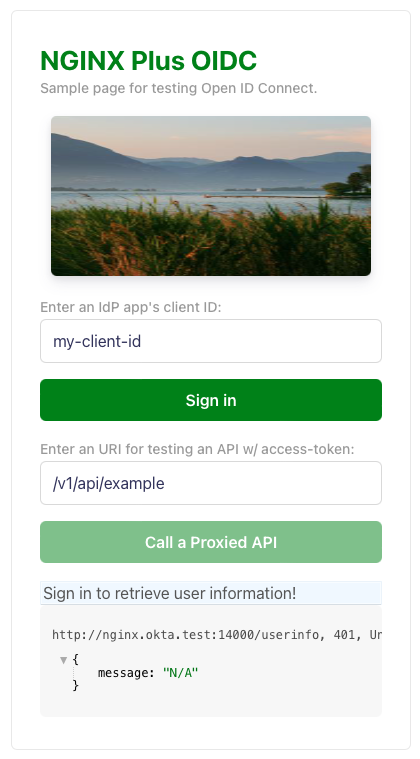
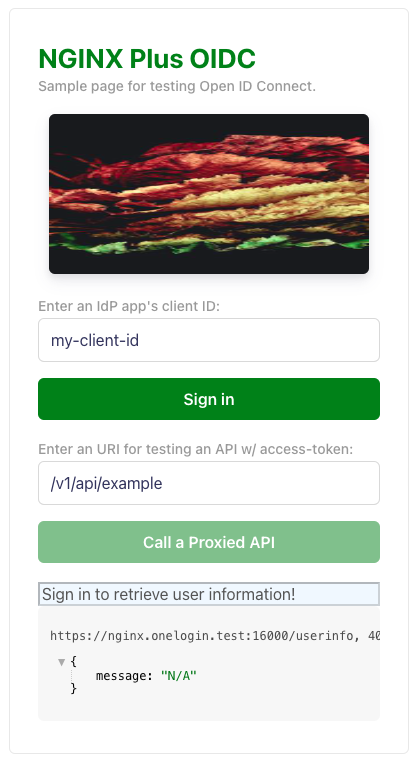
feat: container based test for NGINX Plus OIDC

diff --git a/docs/03-Container-Test.md b/docs/03-Container-Test.md
@@ -39,7 +39,7 @@ Take the following steps to run NGINX Plus in a Docker container and test OIDC f
 
 ## 3. Run a Browser and Test OIDC
 
-- **Run** a Web Browser with `https://nginx.onlogin.test`, and enter an `IdP application`'s `client ID`:
+- **Run** a Web Browser with `https://nginx.onlogin.test:16000`, and enter an `IdP application`'s `client ID`:
 
   ![](./img/run-browser.png)
 
